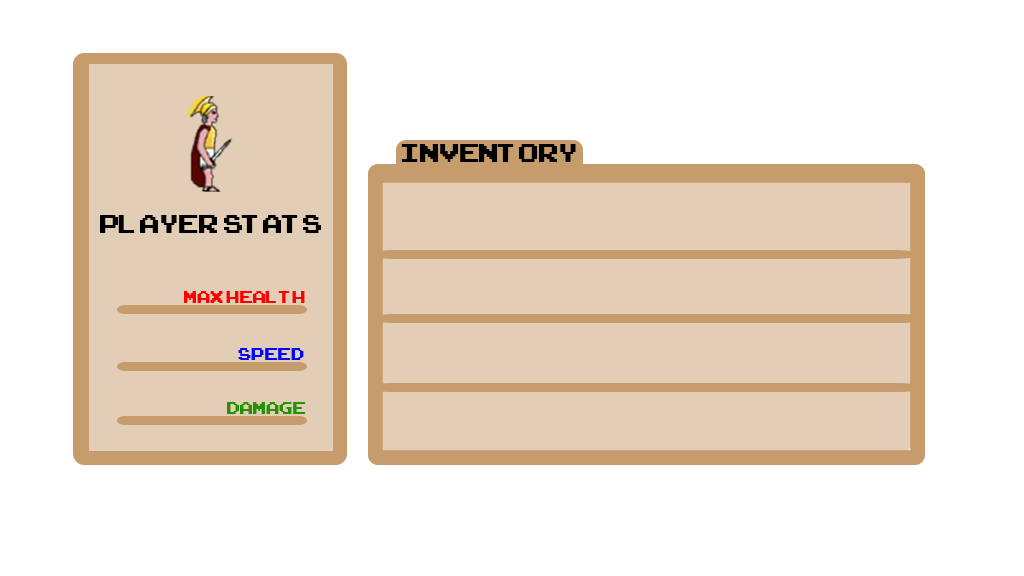
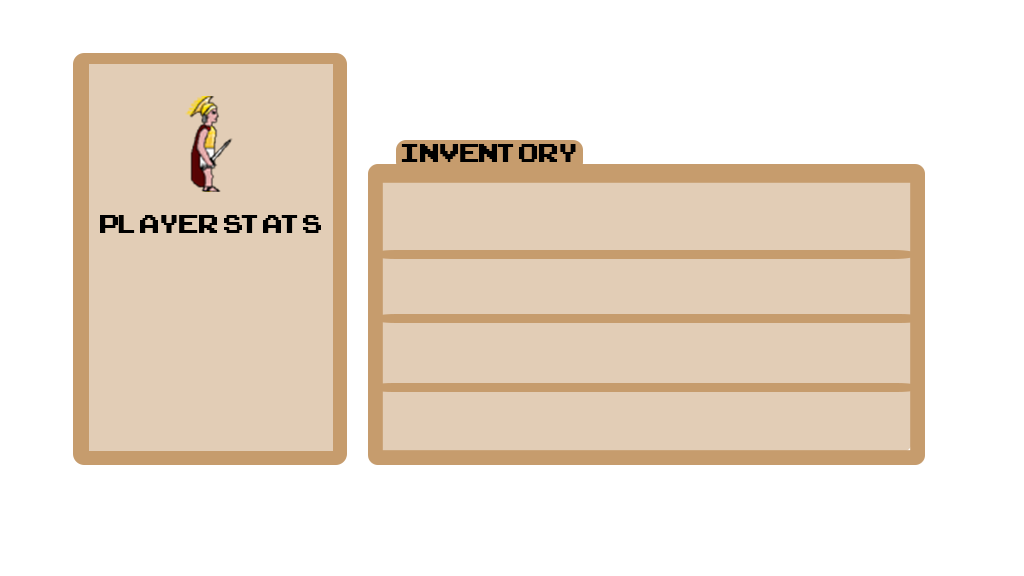
added player stats
Added player stats to inventory UI

Changed region(s): [[0.0938, 0.5, 0.3125, 0.5625], [0.0938, 0.6875, 0.3125, 0.75], [0.0938, 0.5938, 0.3125, 0.6562]]

diff --git a/code/engine/Levels/UIS.js b/code/engine/Levels/UIS.js
@@ -19,17 +19,27 @@ class UIS extends Phaser.Scene {
     }
 
     create() {
+            var styleRed = { font: "20px Arial", fill: "#FF0000", align: "center" };
+            var styleGreen = { font: "20px Arial", fill: "#008000", align: "center" };
+        	var styleBlue = { font: "20px Arial", fill: "#0000ff", align: "center" };
+        
         game.scene.pause(currentLevelID);
         
         let inventoryBg = this.add.image(this.game.renderer.width * 0.5, this.game.renderer.height * 0.5, "inventory").setDepth(0).setInteractive();
         let exitbutton = this.add.image(this.game.renderer.width * 0.85, this.game.renderer.height * 0.28, "items1").setDepth(1).setInteractive();
         
-        
+        //inventory slots
         let slotPresent1 = this.add.image(this.game.renderer.width * .45, this.game.renderer.height * 0.36, itemToDisplay1).setDepth(1).setInteractive(); 
         let slotPresent2 = this.add.image(this.game.renderer.width * .6, this.game.renderer.height * 0.36, itemToDisplay2).setDepth(1).setInteractive();
         let slotPresent3 = this.add.image(this.game.renderer.width * .7, this.game.renderer.height * 0.36, itemToDisplay3).setDepth(1).setInteractive();
         let slotPresent4 = this.add.image(this.game.renderer.width * .8, this.game.renderer.height * 0.36, itemToDisplay4).setDepth(1).setInteractive();
 
+        //display player stats
+       var maxHealthText= this.add.text(this.game.renderer.width *.12, this.game.renderer.height * 0.5, maxHealth+"  MaxHealth", styleRed)
+        var speedText = this.add.text(this.game.renderer.width *.12, this.game.renderer.height * 0.6, playerWalkVelocity+"  Speed", styleBlue)
+        var damage = this.add.text(this.game.renderer.width *.12, this.game.renderer.height * 0.7, playerDamagePoints +"  Damage", styleGreen)
+
+        
         //close invent screen when the x is pressed
         exitbutton.on('pointerup', function () {
 	        game.scene.resume(currentLevelID);
